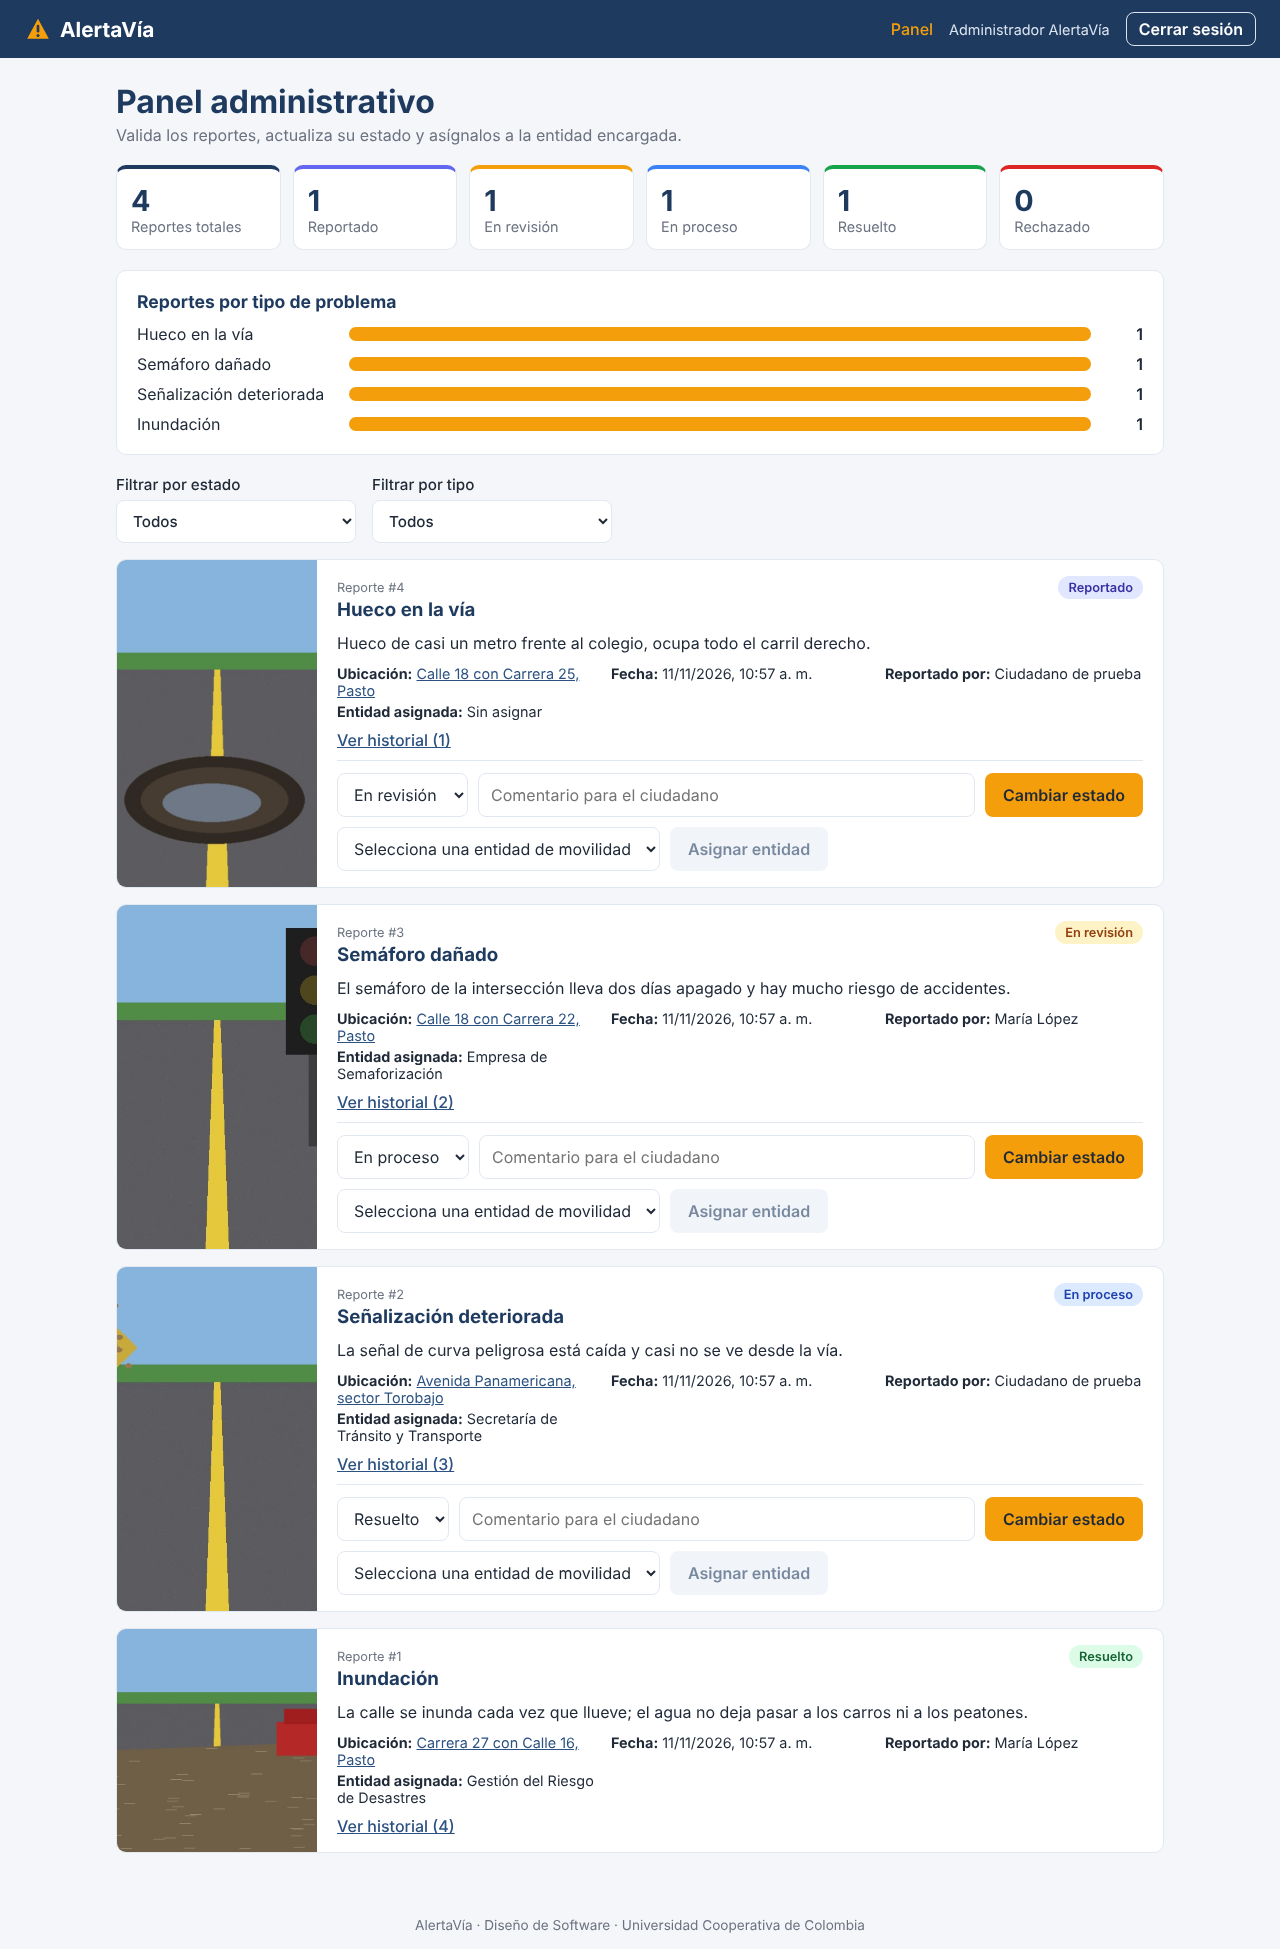
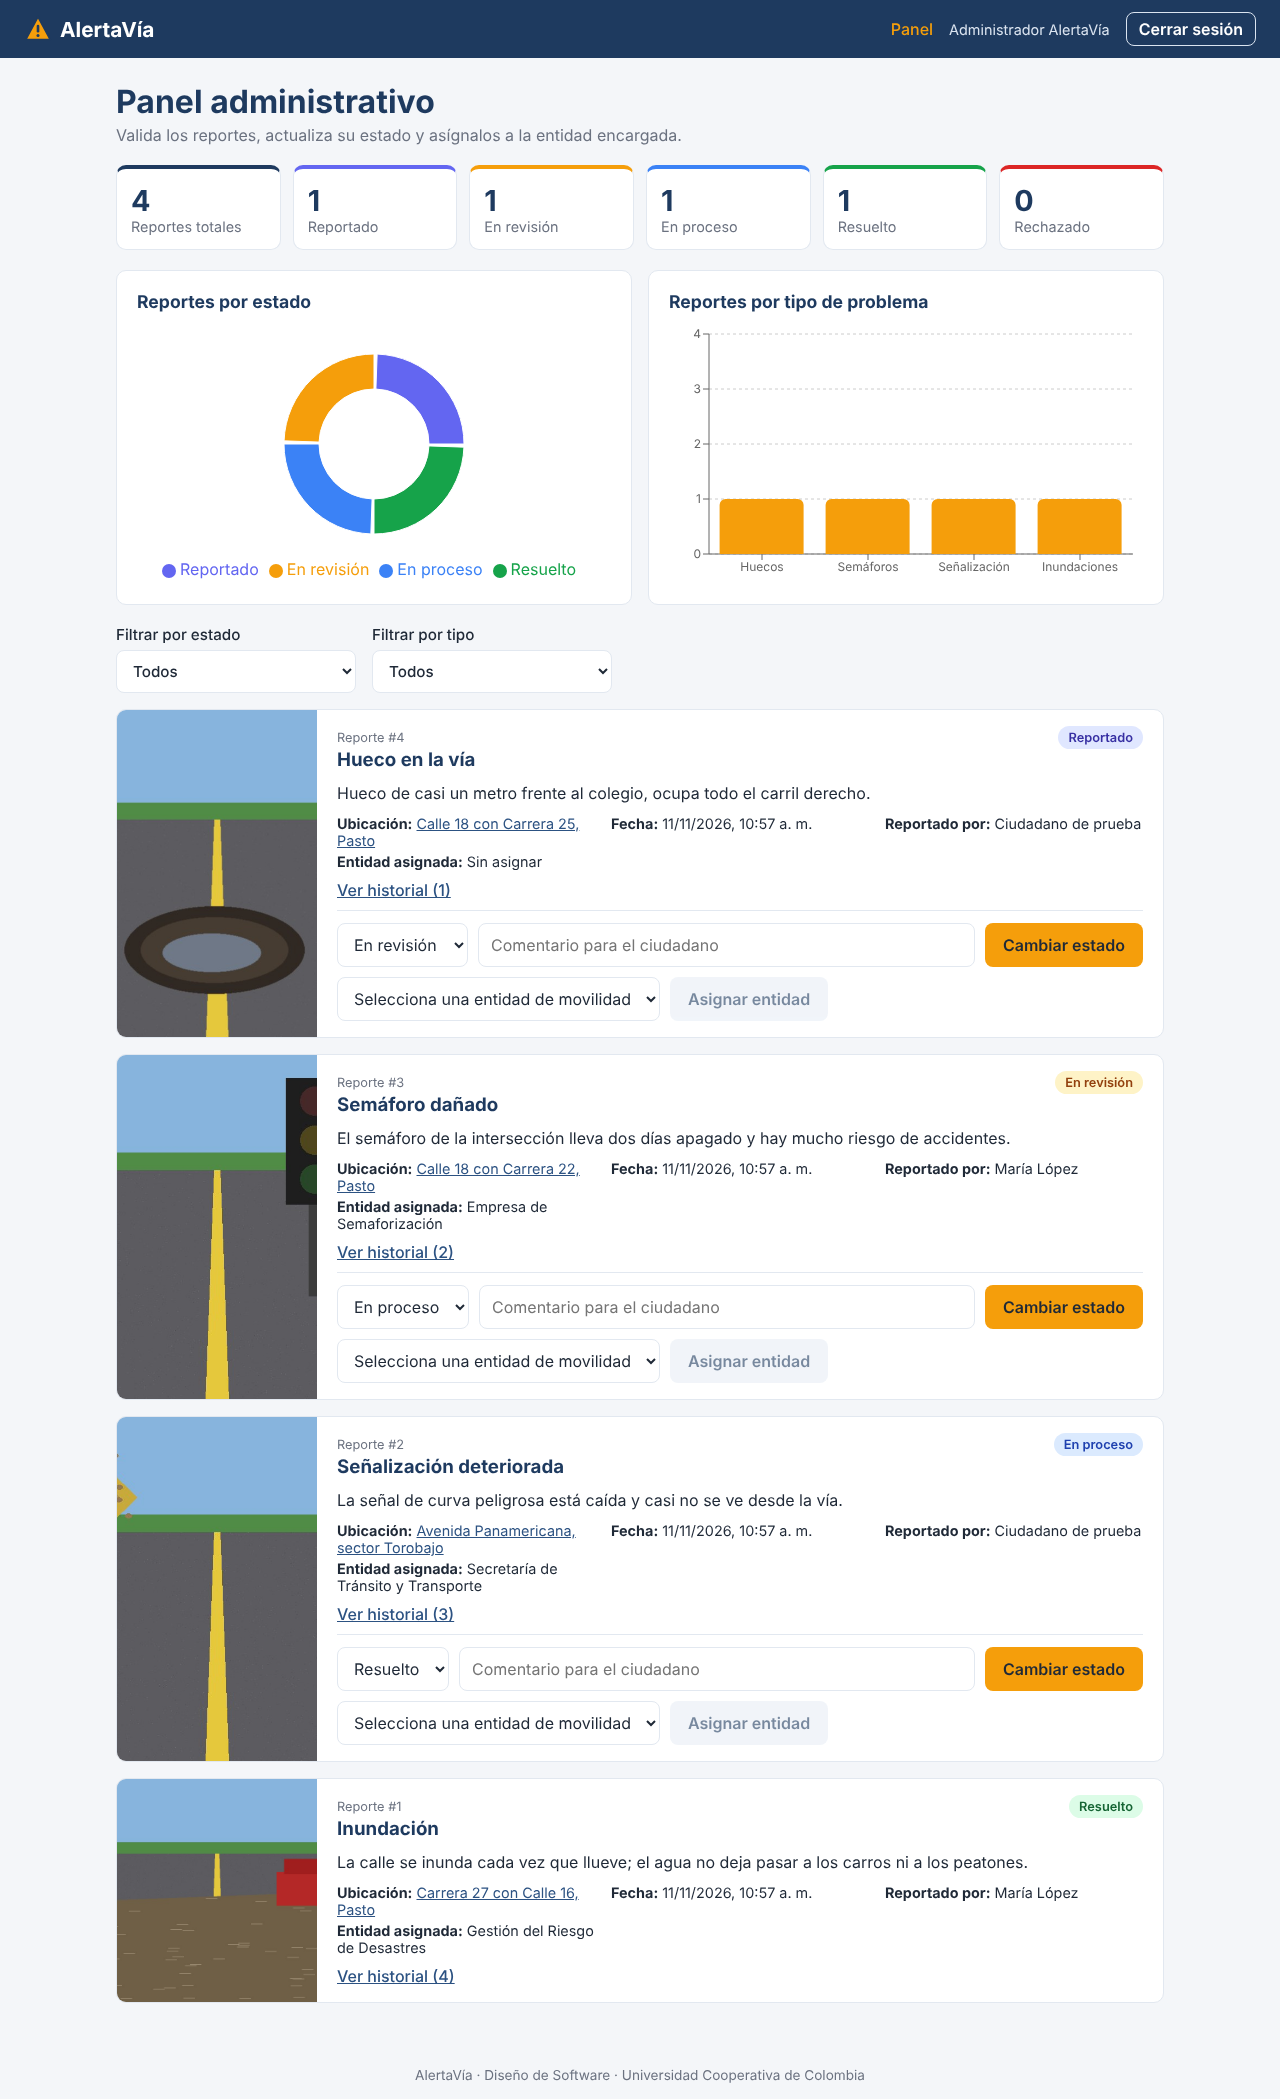
docs: capturas del panel con gráficas y wiki actualizada

diff --git a/wiki/7).-Implementacion-y-Despliegue.md b/wiki/7).-Implementacion-y-Despliegue.md
@@ -2,13 +2,13 @@
 
 | Capa | Tecnología |
 |------|------------|
-| Frontend | React 18 + Vite, React Router |
+| Frontend | React 18 + Vite, React Router, Recharts |
 | Backend | Java 17, Spring Boot 3 (Web, Data JPA, Security, Validation, Mail) |
 | Seguridad | JWT (jjwt) y BCrypt |
 | Base de datos | PostgreSQL 16 |
 | Documentación de la API | springdoc-openapi (Swagger) |
 | Servicios externos | Google Maps API, Cloudinary, SMTP |
-| Pruebas | JUnit 5, MockMvc, H2 |
+| Pruebas | JUnit 5, Mockito, MockMvc, H2 |
 | Integración continua | GitHub Actions |
 | Despliegue | Docker + Render (backend y base de datos), Vercel (frontend) |
 
@@ -31,7 +31,7 @@ backend/src/main/java/com/alertavia/
 
 frontend/src/
 ├── pages/         LoginPage, ReportFormPage, MyReportsPage, AdminDashboardPage
-├── components/    MapPicker, PhotoUploader, ReportCard, StatusBadge
+├── components/    MapPicker, PhotoUploader, ReportCard, StatusBadge, StatisticsCharts
 ├── services/      apiClient, authApi, reportApi, adminApi
 └── auth/          AuthContext, ProtectedRoute
 ```
@@ -55,37 +55,37 @@ frontend/src/
 
 ## 7.4 Ejecución local
 
-**Requisitos:** Java 17, Maven, Node.js 20 o superior y PostgreSQL (o Docker).
+**Requisitos:** Java 17, Node.js 20 o superior y Docker (o PostgreSQL instalado). El backend trae el Maven Wrapper (`mvnw`), así que no hace falta instalar Maven.
 
-```bash
-# Base de datos y backend con Docker
-docker compose up --build
+| Opción | Comando | Resultado |
+|--------|---------|-----------|
+| Un solo comando | `./run.sh` | Levanta PostgreSQL, backend y frontend |
+| Todo en contenedores | `docker compose up --build` | Frontend en `http://localhost:3000`, backend en `http://localhost:8080` |
+| Manual | `cd backend && ./mvnw spring-boot:run` y `cd frontend && npm install && npm run dev` | Frontend en `http://localhost:5173` |
+| Dev Container | VS Code → *Reopen in Container* o GitHub Codespaces | Entorno con Java 17, Node 20 y Docker |
 
-# O el backend sin Docker (con PostgreSQL local y la base alertavia_db creada)
-cd backend
-mvn spring-boot:run
-
-# Frontend
-cd frontend
-cp .env.example .env
-npm install
-npm run dev
-```
-
-* Frontend: `http://localhost:5173`
-* API: `http://localhost:8080`
-* Swagger: `http://localhost:8080/swagger-ui.html`
+Swagger queda en `http://localhost:8080/swagger-ui.html`.
 
 ## 7.5 Pruebas
 
 ```bash
 cd backend
-mvn verify
+./mvnw verify
 ```
 
-* **`ReportTest`** (6 pruebas): flujo de estados, prohibición de saltar estados, asignación de entidad, URL del mapa y notificaciones.
-* **`AlertaViaApplicationTests`** (2 pruebas de integración): registro, creación del reporte con foto, acceso denegado al ciudadano en rutas de administrador, validación, asignación, filtros, estadísticas, notificaciones y credenciales incorrectas.
-* GitHub Actions ejecuta las pruebas del backend y la compilación del frontend en cada push.
+**39 pruebas, 0 fallos.**
+
+| Clase | Tipo | Qué verifica |
+|-------|------|--------------|
+| `ReportTest` | Unitaria | Flujo de estados, asignación de entidad, URL del mapa y notificaciones |
+| `ReportStatusTest` | Unitaria parametrizada | Transiciones permitidas y prohibidas y etiquetas en español |
+| `AuthServiceTest` | Unitaria (Mockito) | Registro, correo duplicado, roles y usuario inexistente |
+| `TrackingServiceTest` | Unitaria (Mockito) | Cambio de estado, notificaciones, transición inválida y asignación |
+| `PhotoStorageServiceTest` | Unitaria (Mockito) | Mínimo una foto, máximo tres y solo imágenes |
+| `LocationServiceTest` | Unitaria (Mockito) | Dirección escrita, Google Maps y coordenadas de respaldo |
+| `AlertaViaApplicationTests` | Integración (MockMvc + H2) | Recorrido completo por la API con permisos por rol |
+
+GitHub Actions ejecuta las pruebas del backend, compila el frontend y construye las imágenes Docker en cada push.
 
 ## 7.6 Despliegue
 
